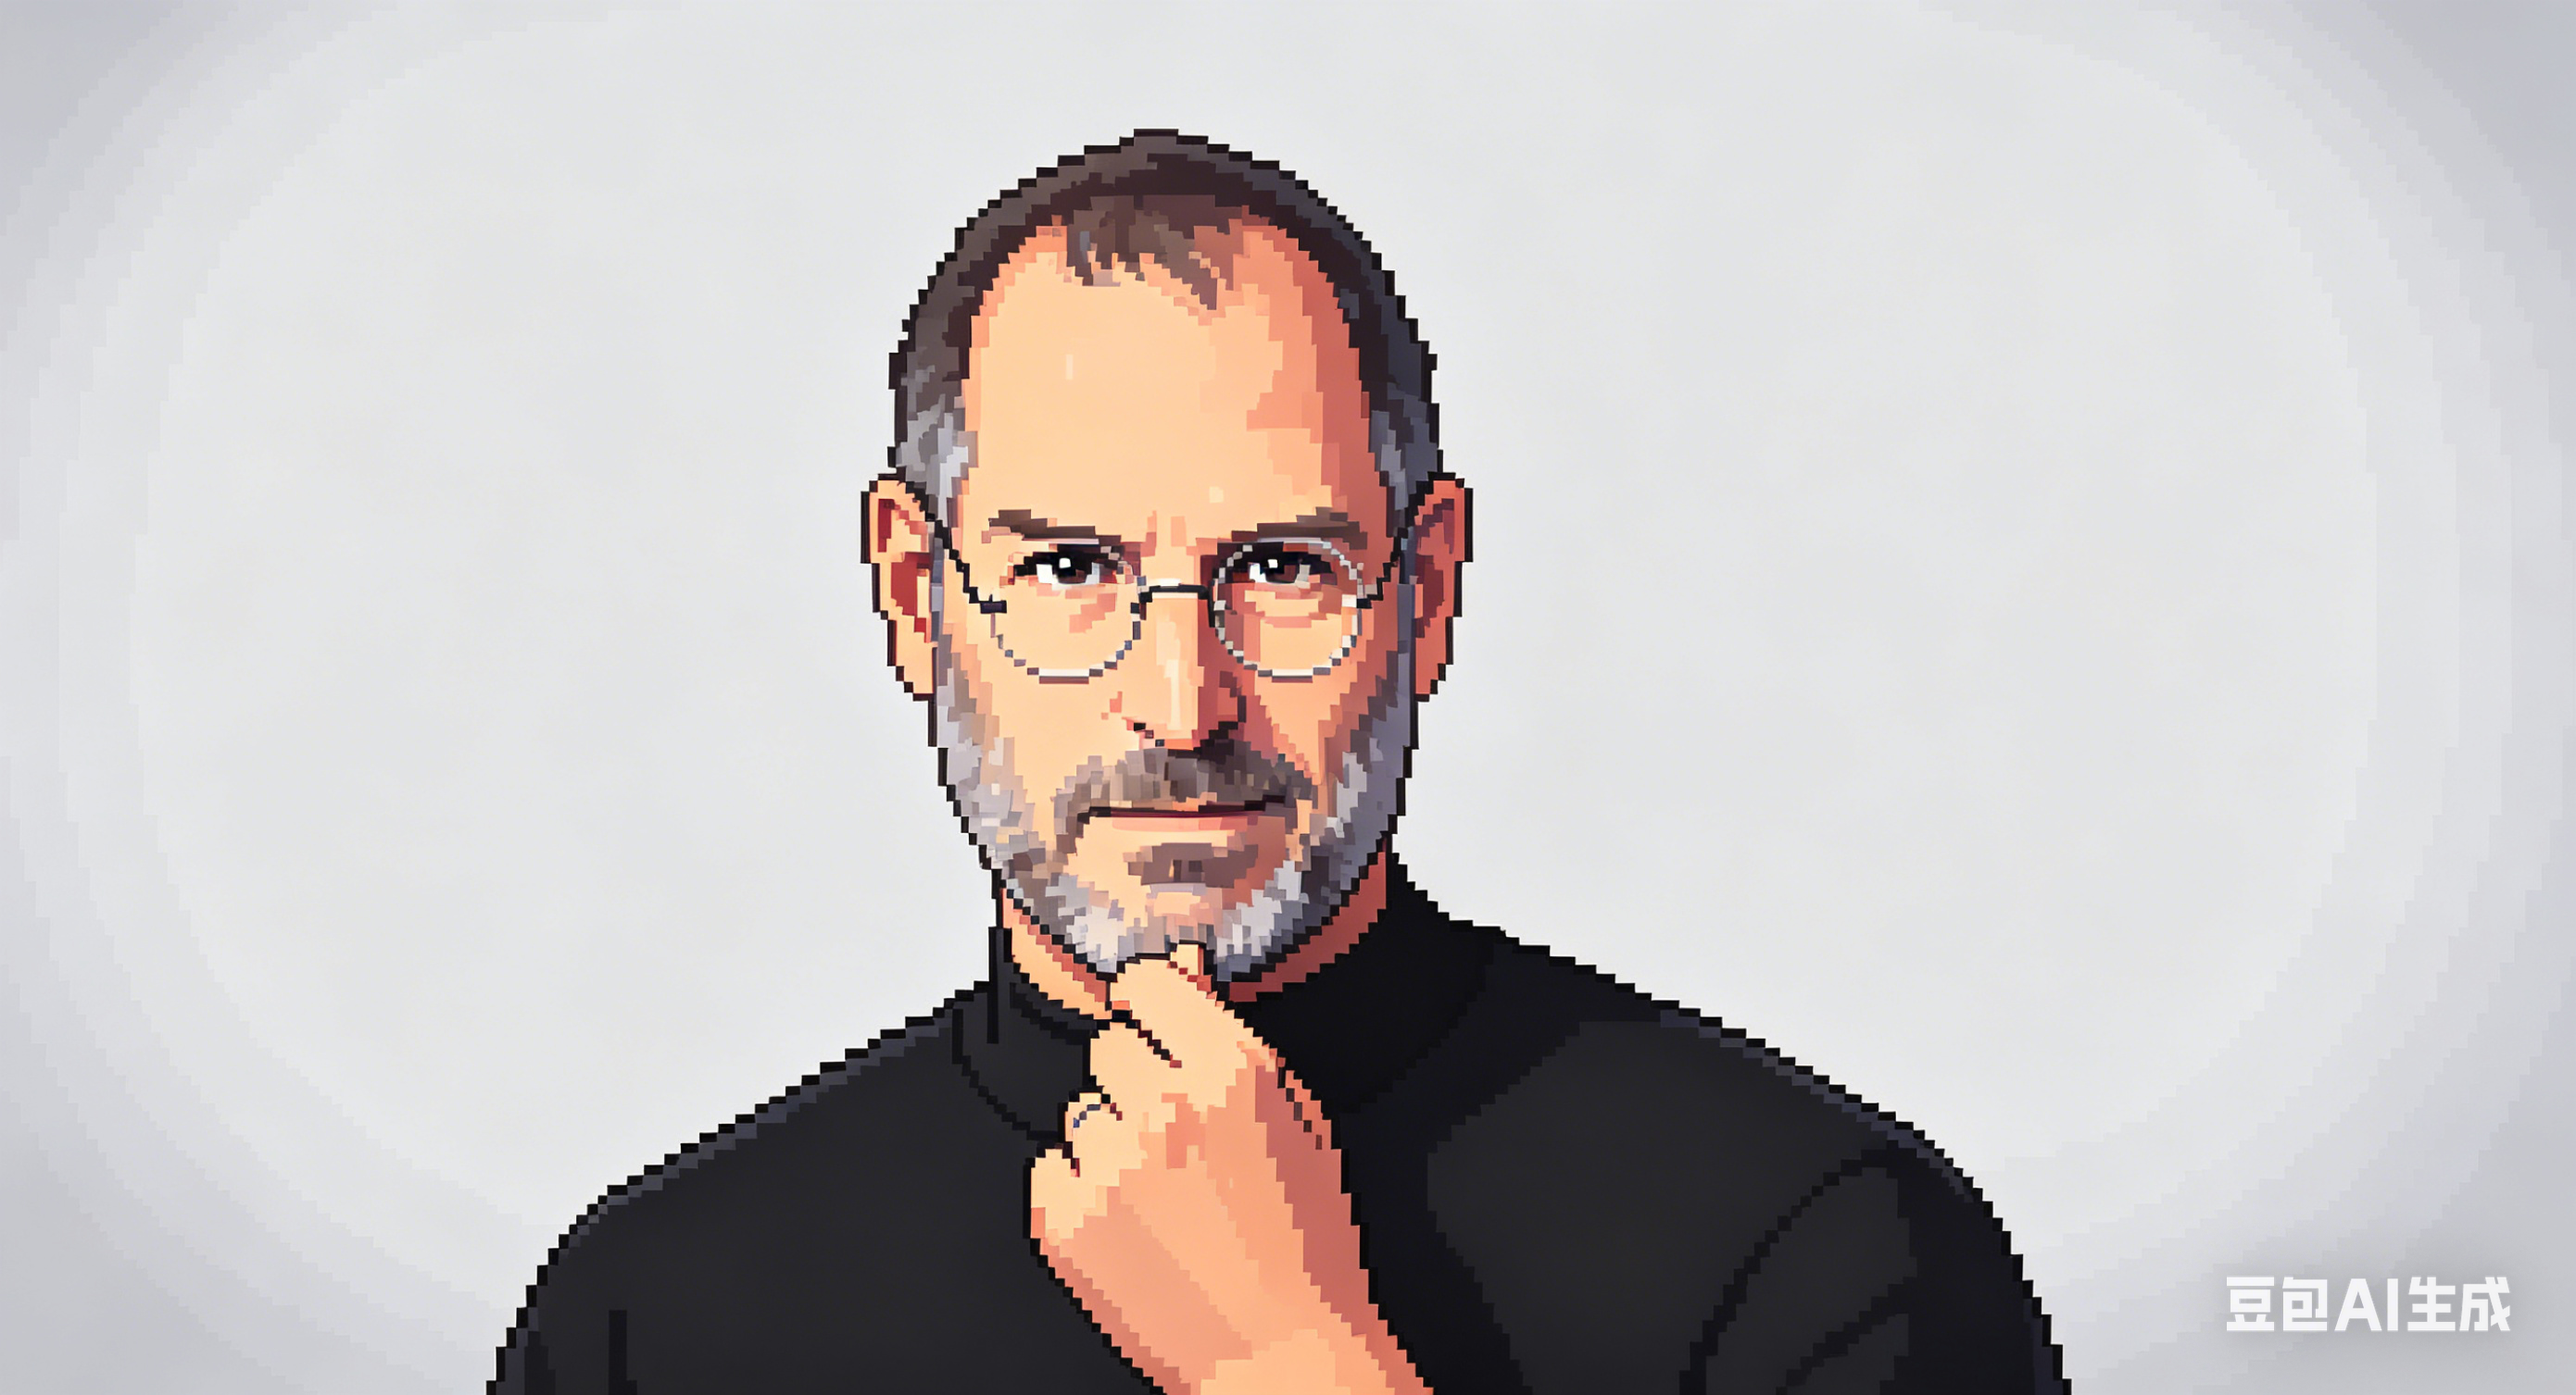
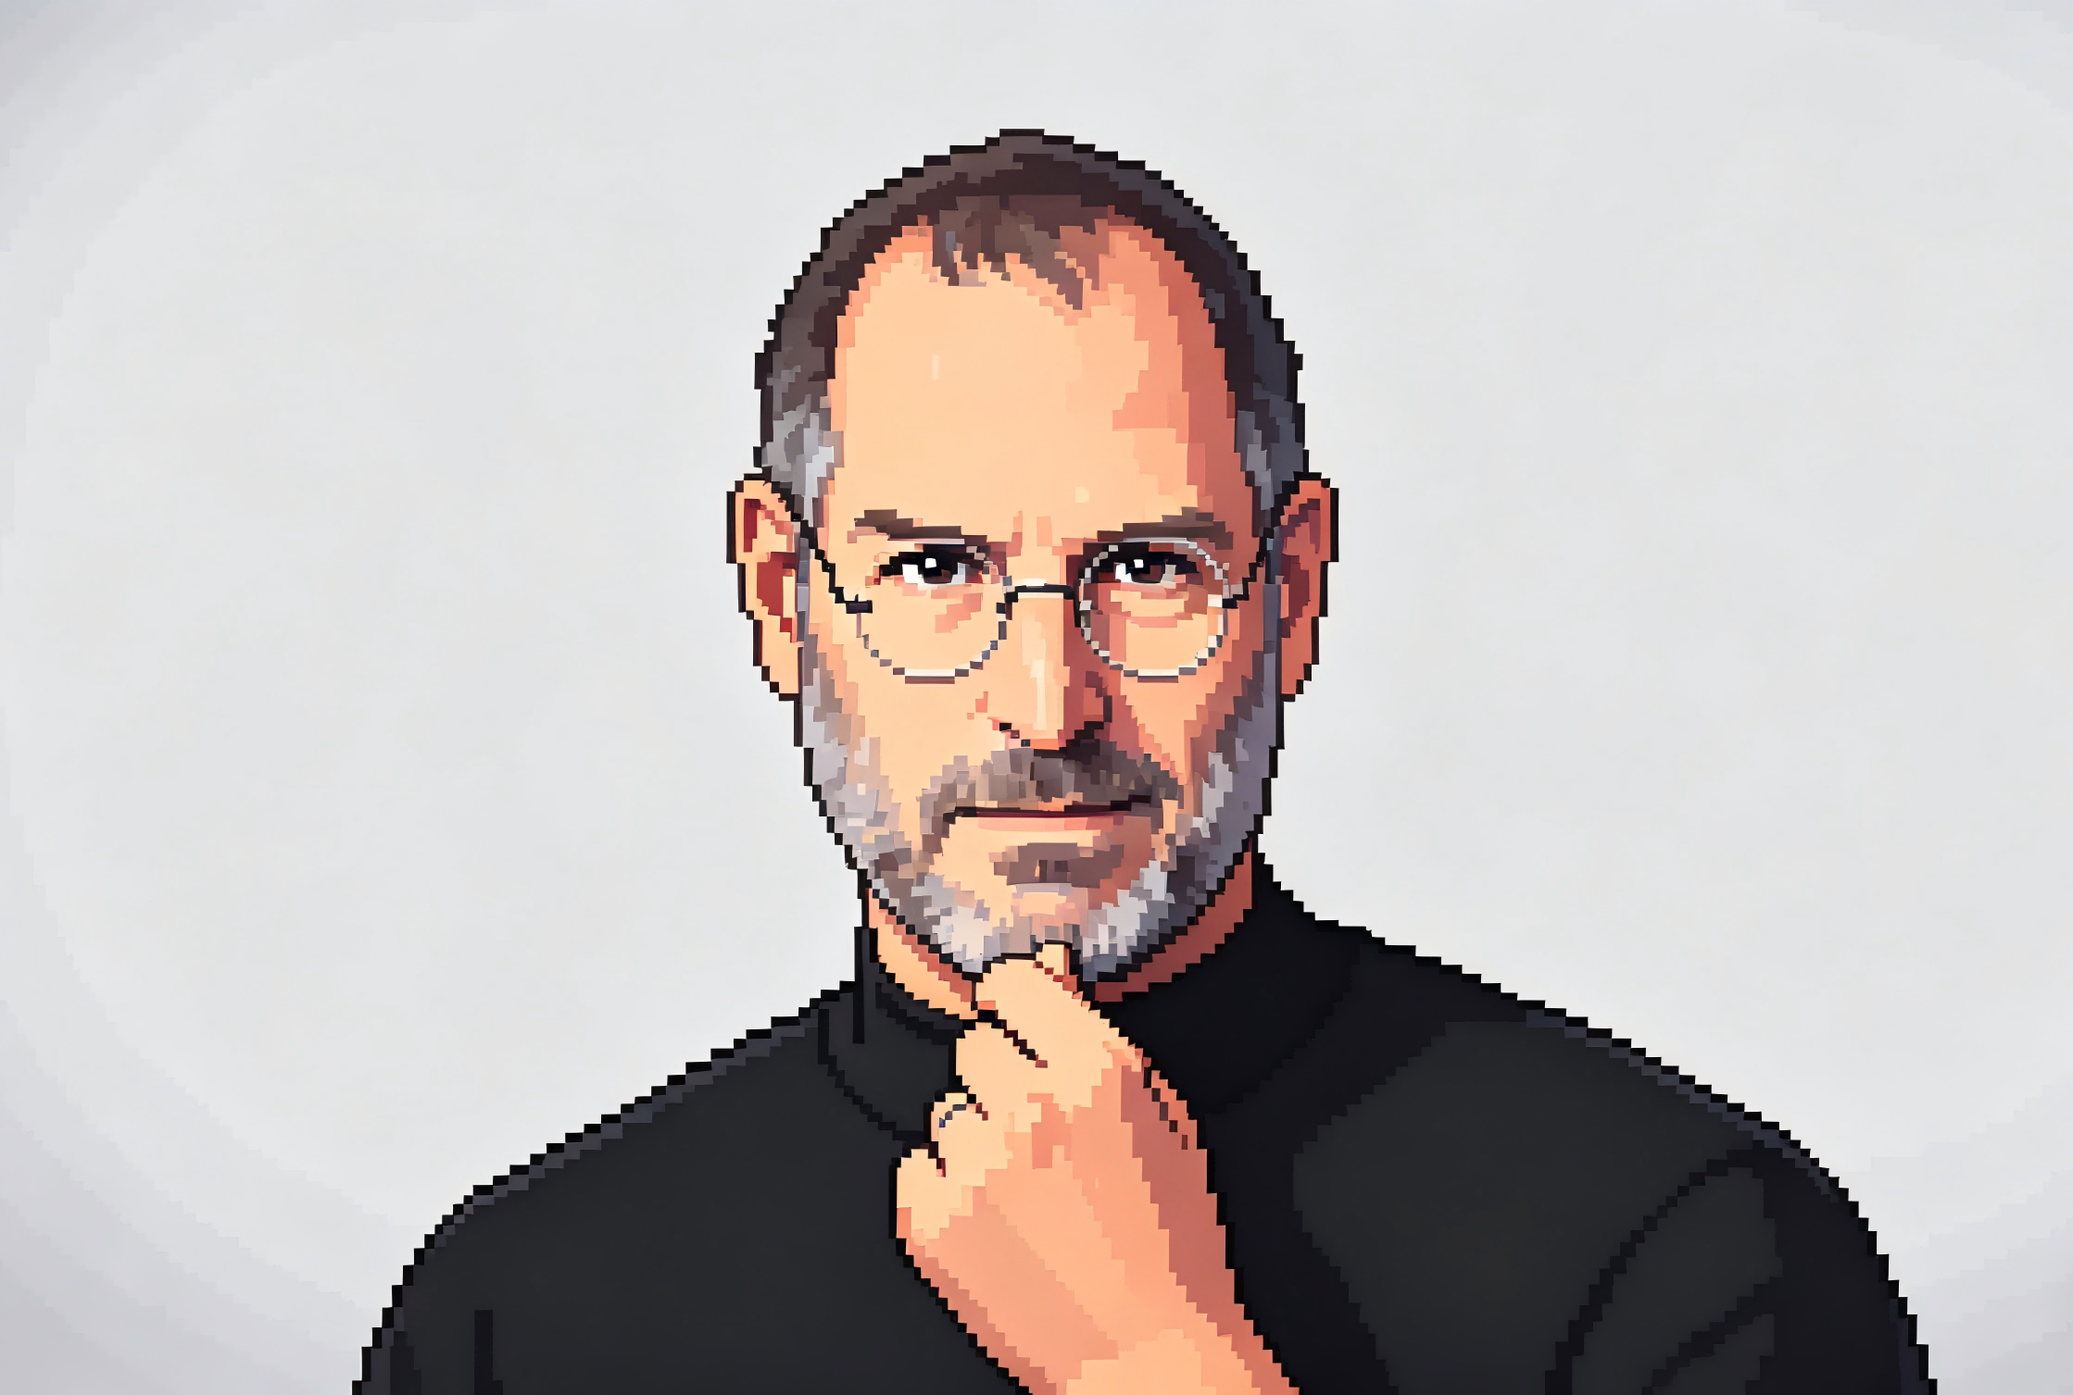
改进头像显示：从object-cover改为object-contain，确保完整清晰显示

Changed region(s): [[0.2466, 0.0936, 1.0, 1.0], [0.9249, 0.0, 1.0, 0.2183], [0.1542, 0.8421, 0.2466, 1.0]]

diff --git a/src/components/SkillAvatar.tsx b/src/components/SkillAvatar.tsx
@@ -25,15 +25,15 @@ export default function SkillAvatar({
   if (avatar) {
     return (
       <div
-        className={`${base} [box-shadow:rgba(0,0,0,0.12)_0px_4px_12px]`}
+        className={`${base} [box-shadow:rgba(0,0,0,0.12)_0px_4px_12px] bg-white`}
         style={{ width: size, height: size }}
       >
         <Image
           src={avatar}
           alt={name}
-          width={size}
-          height={size}
-          className="w-full h-full object-cover object-top"
+          width={size * 2}
+          height={size * 2}
+          className="w-full h-full object-contain"
         />
       </div>
     )
